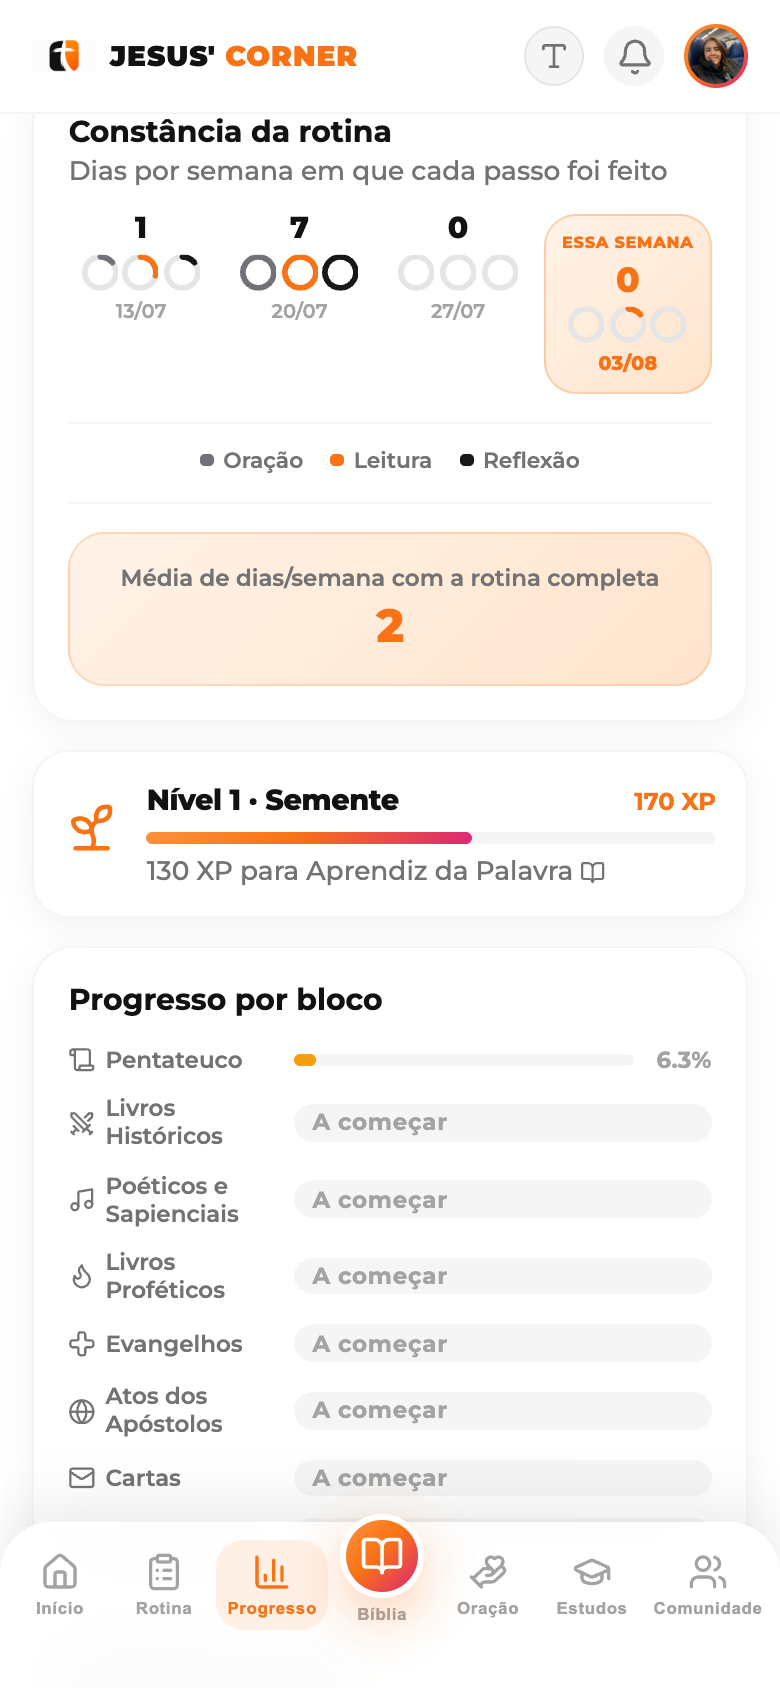
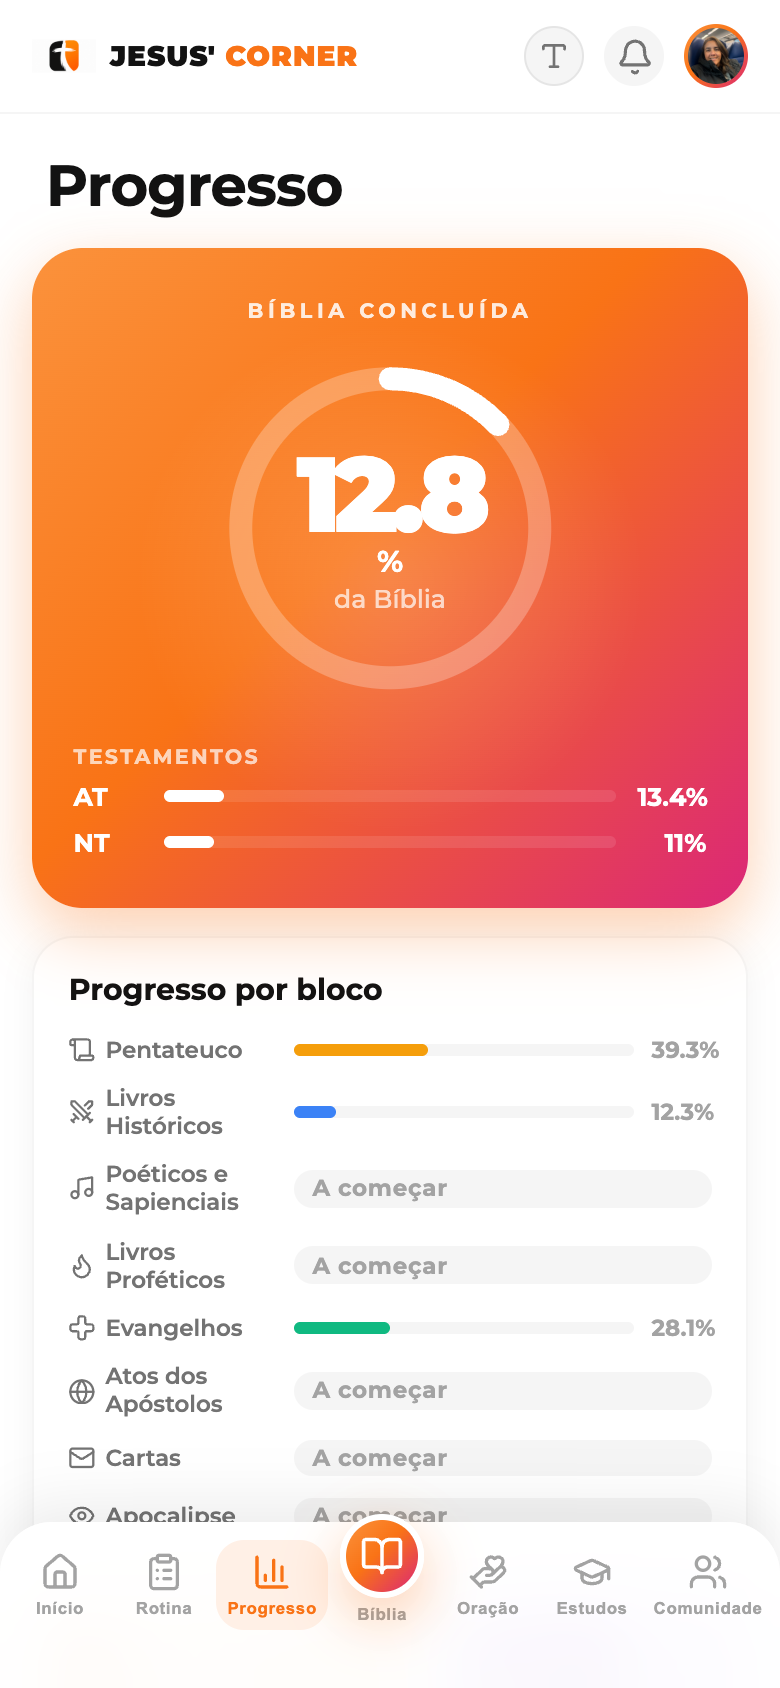
Atualizar o screenshot em destaque (Progresso) e sua legenda
A aba Progresso mudou (Progresso por bloco agora vem logo depois do
anel, a Constância da rotina saiu pra aba Rotina) — recaptura o
screenshot e ajusta o texto, que ainda falava do gráfico de
constância que não mora mais ali.

diff --git a/src/content.js b/src/content.js
@@ -32,7 +32,7 @@ export const content = {
     showcase: [
       { image: 'leitura', title: 'Leia a Bíblia inteira, capítulo por capítulo', desc: 'Cada capítulo traz o texto bíblico completo, com contexto histórico, mapa e curiosidades — numa coluna larga e confortável de ler. Termine e marque como lido sem sair da tela; um toque leva direto pro próximo capítulo.' },
       { image: 'rotina', title: 'Sua rotina com Deus, num só lugar', desc: 'Oração, leitura e reflexão organizadas numa linha do tempo que se preenche conforme você avança. Veja a sessão de leitura do dia, o tempo de cada passo, e comece por onde quiser — tudo na aba Rotina.' },
-      { image: 'progresso', title: 'Acompanhe sua constância, semana a semana', desc: 'Um gráfico mostra quantos dias você orou, leu e refletiu nas últimas semanas, com a semana atual sempre em destaque — além de estatísticas por livro, por bloco, níveis e conquistas.' },
+      { image: 'progresso', title: 'Veja seu progresso pela Bíblia inteira', desc: 'Um anel mostra quanto você já leu no total, seguido do progresso em cada bloco — Pentateuco, Históricos, Profetas e mais. Some sua sequência de dias, capítulos lidos, níveis e conquistas, tudo numa tela só.' },
     ],
     ctaShowcaseText: 'Viu como funciona? Agora é sua vez de experimentar.',
     ctaShowcaseBtn: 'Quero começar',
@@ -155,7 +155,7 @@ export const content = {
     showcase: [
       { image: 'leitura', title: 'Read the whole Bible, chapter by chapter', desc: 'Every chapter brings the full Bible text, with historical context, a map, and trivia — in a wide, comfortable reading column. Finish and mark it as read without leaving the screen; one tap takes you straight to the next chapter.' },
       { image: 'rotina', title: 'Your routine with God, in one place', desc: "Prayer, reading, and reflection laid out on a timeline that fills in as you go. See today's reading session, how long each step takes, and start wherever you like — all from the Routine tab." },
-      { image: 'progresso', title: 'Track your consistency, week by week', desc: 'A chart shows how many days you prayed, read, and reflected over the past few weeks, with the current week always highlighted — plus stats by book, by block, levels, and achievements.' },
+      { image: 'progresso', title: 'See your progress through the whole Bible', desc: 'A ring shows how much you\'ve read overall, followed by progress in each block — Pentateuch, Historical, Prophets, and more. Add your day streak, chapters read, levels, and achievements, all in one screen.' },
     ],
     ctaShowcaseText: 'See how it works? Now it\'s your turn to try it.',
     ctaShowcaseBtn: 'I want to start',
